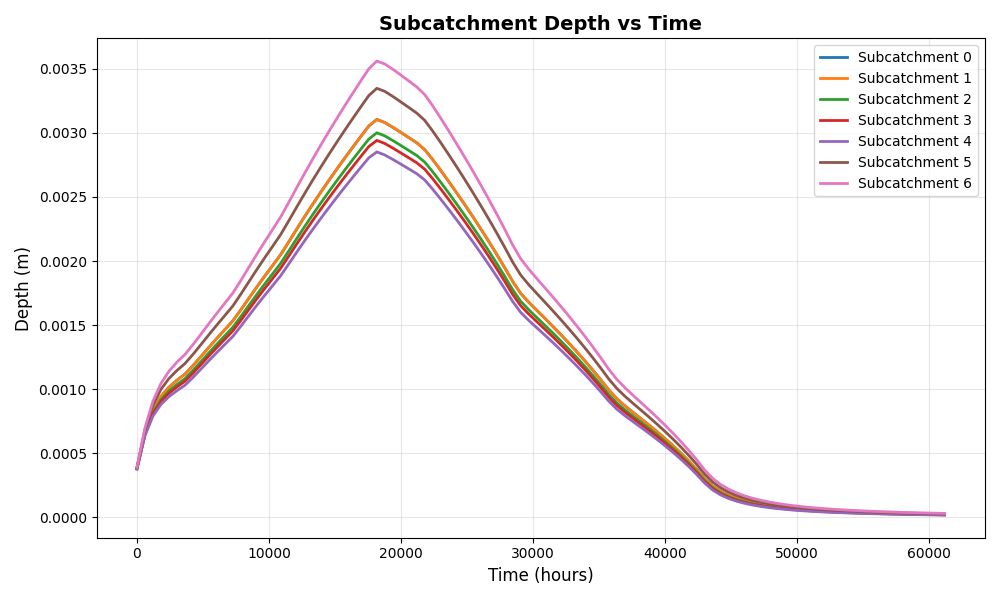
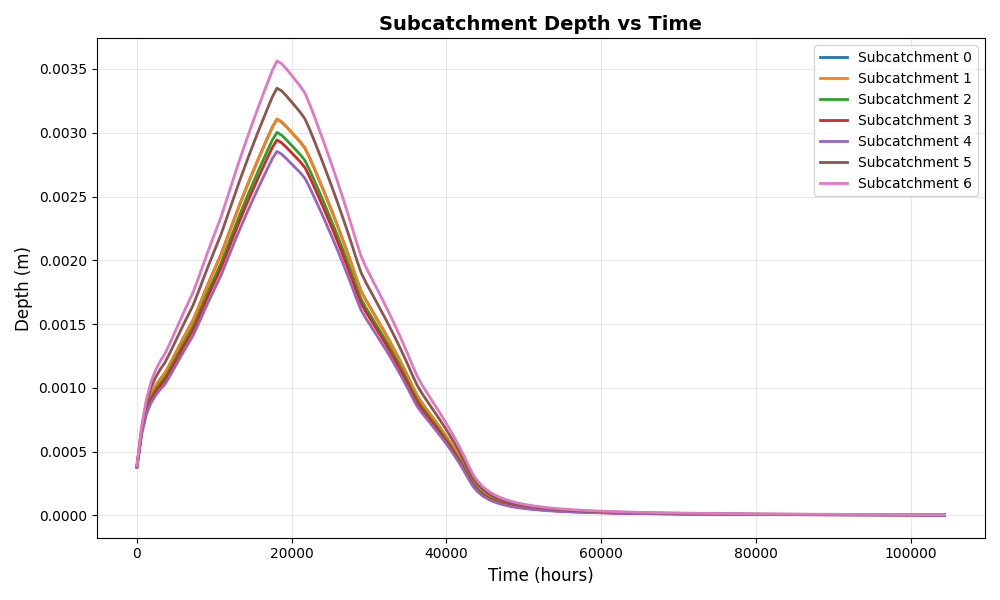
Setup for Comparing the number of junctions

diff --git a/app/example.py b/app/example.py
@@ -96,12 +96,8 @@ def example(file, rainfall, rainfallTimes, dt, createVisuals=True):
     # TODO: Actually store these 
 
     if createVisuals == True:
-        visualize(subcatchment, street, street.yFull, sewer, 0.5, subcatchmentDepths, runoffs, streetDepths, streetEdgeAreas, sewerDepths, sewerEdgeAreas, drainOverflows, drainInflows, rainfallTimes, rainfall, peakDischarges, cmap=plt.cm.plasma, fps=20 )
+        visualize(subcatchment, street, street.yFull, sewer, 0.5, subcatchmentDepths, runoffs, streetDepths, streetEdgeAreas, sewerDepths, sewerEdgeAreas, drainOverflows, drainInflows, rainfallTimes, rainfall, peakDischarges, cmap=plt.cm.plasma, fps=5 )
     subcatchment.visualize(ts,subcatchmentDepths,fileName="subcatchmentGraph")
-    sum = 0
-    for i in range(7):
-        sum += np.trapezoid((np.array(subcatchmentDepths).T)[i,:], ts) * 18*6
-    pprint(f"area under: {sum}")
 
     # pprint(f"Runoffs: {runoffs}")
     # pprint(f"streetDepths: {streetDepths}")
@@ -114,14 +110,14 @@ def example(file, rainfall, rainfallTimes, dt, createVisuals=True):
 if __name__ == "__main__":
     spaceConversion=0.0254
     timeConversion=3600
-    dt = 600
-    rainfall = np.array([0.10, 0.15, 0.25, 0.40, 0.60, 0.80, 0.70, 0.50, 0.30, 0.20, 0.10, 0.05, 0.0,0.0,0.0,0.0,0.0,0.0])
+    dt = 1800
+    rainfall = np.array([0.10, 0.15, 0.25, 0.40, 0.60, 0.80, 0.70, 0.50, 0.30, 0.20, 0.10, 0.05, 0.0,0.0,0.0,0.0,0.0,0.0, 0.0,0.0,0.0,0.0,0.0,0.0, 0.0,0.0,0.0,0.0,0.0,0.0])
     # rainfall = np.array([0.10, 0.15, 0.25, 0.40, 0.60, 0.80, 0.70, 0.50, 0.30, 0.20, 0.10, 0.05])
     # rainfall = [0.0,0.5,1.0,0.75,0.5]
     rainfallTimes = [i for i in range(len(rainfall))]
     # rainfall, rainfallTimes = normalizeRainfall(rainfall, rainfallTimes, spaceConversion=0.0254, timeConversion=3600)
     rainfall, rainfallTimes = normalizeRainfall(rainfall, rainfallTimes, spaceConversion, timeConversion)
 
-    file = "largerExample"
-    example(file, rainfall, rainfallTimes, dt, createVisuals=False)
+    file = "doubled_largerExample"
+    example(file, rainfall, rainfallTimes, dt, createVisuals=True)
 
